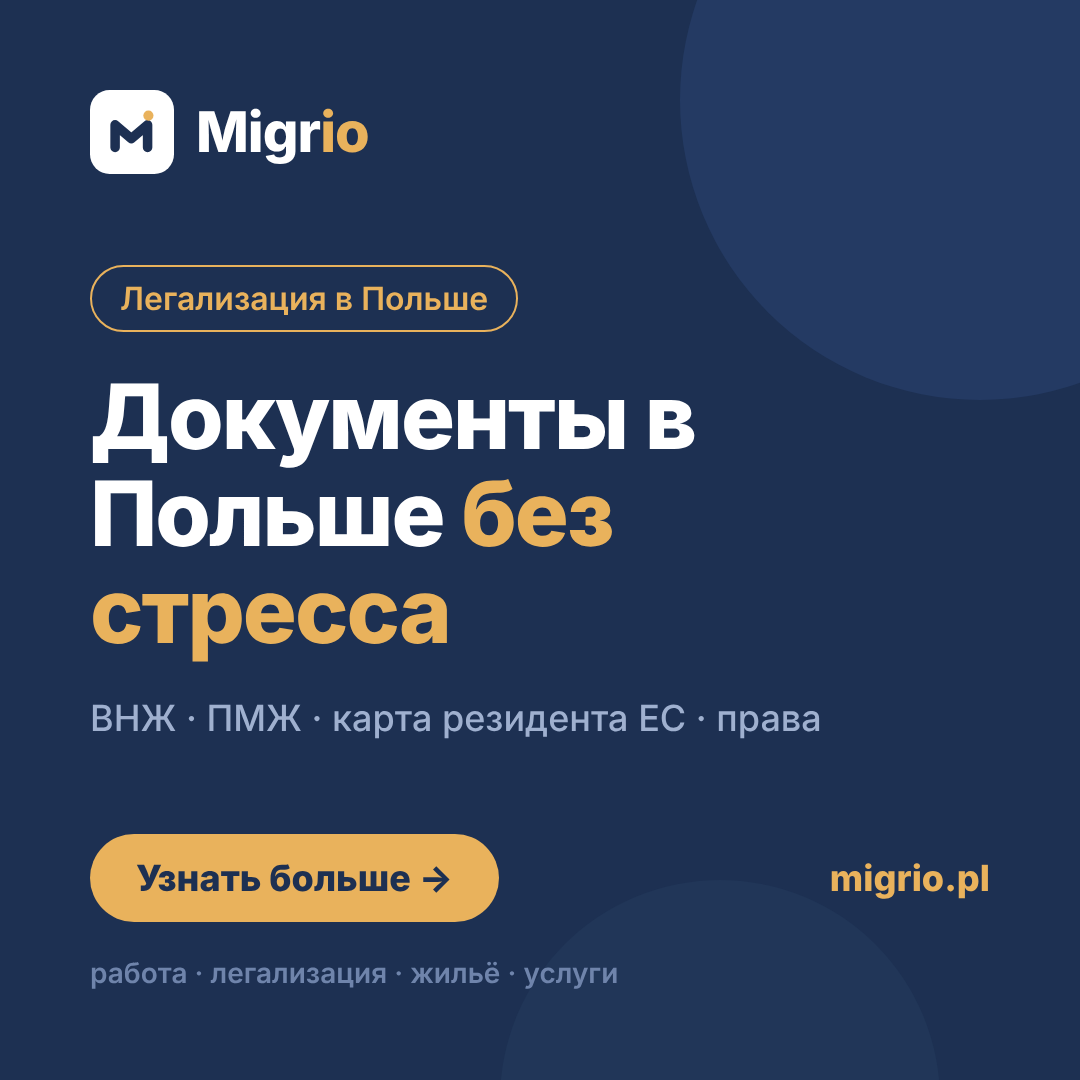
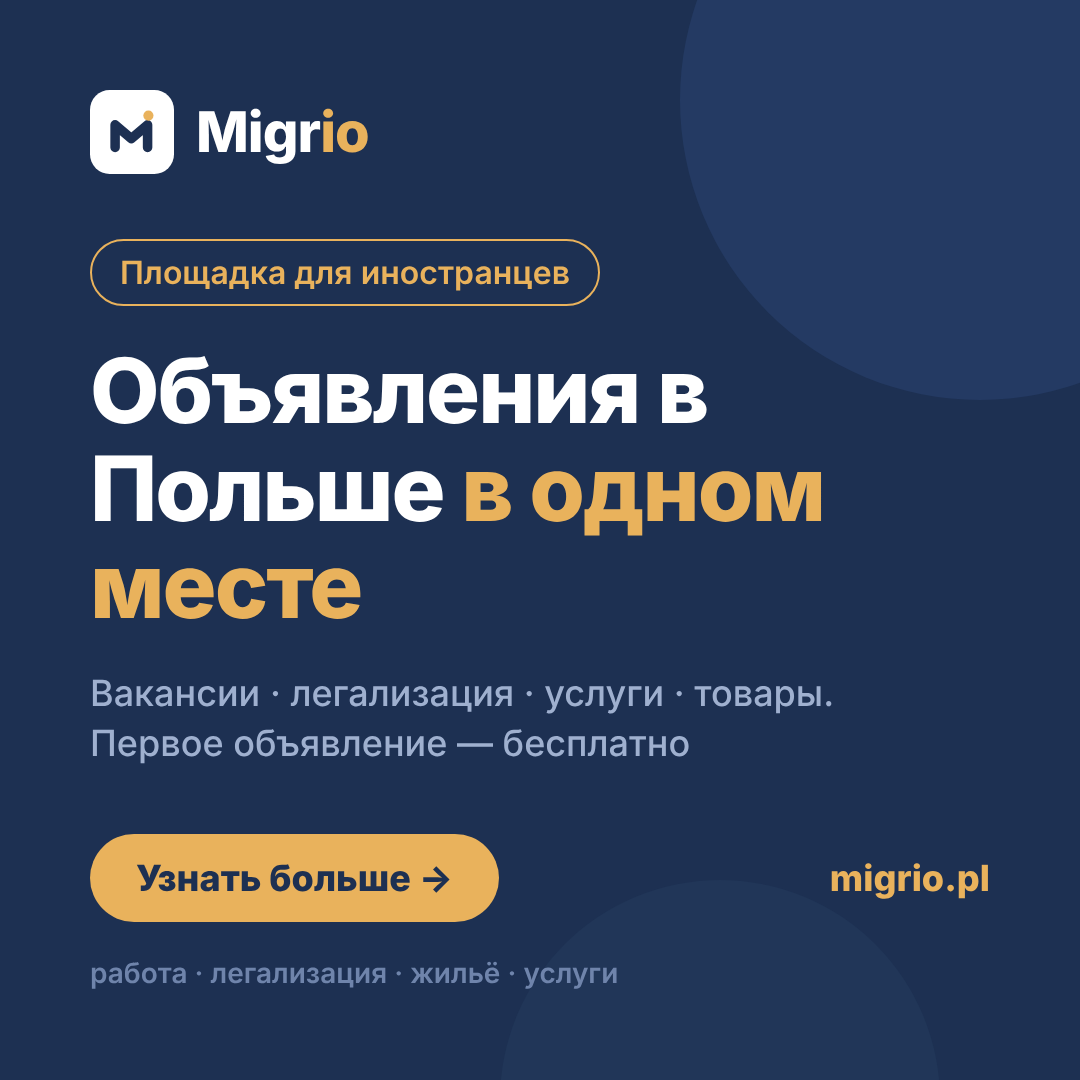
Rewrite posts and images for Migrio classifieds platform
Claude-Session: https://claude.ai/code/session_017Vq9PKqr32zPk6geebjYYy

Changed region(s): [[0.0611, 0.2139, 0.7639, 0.7028]]

diff --git a/migrio-telegram-posts.md b/migrio-telegram-posts.md
@@ -1,122 +1,119 @@
 # Рекламные посты migrio.pl для Telegram-каналов
 
-Допущение: Migrio — сервис для иностранцев в Польше (ВНЖ, ПМЖ, карта резидента ЕС, обмен водительских прав). Всё, что в [скобках], замените своими данными: фишки, цены, сроки, ссылку на бота/mini app.
-Не обещаем «100% результат» и конкретные сроки решений уррада — это и риск для репутации, и нарушение правил многих каналов.
+**Что такое Migrio:** площадка объявлений для иностранцев в Польше. 1 бесплатное объявление: легализация / вакансия / продажа новых и б/у товаров / услуга. Плюс: новости от бота, калькулятор зарплаты в Польше, создание резюме на родном языке с переводом на польский.
+Ссылка / UTM для каждого канала: [migrio.pl?utm_source=...]
 
 ---
 
-## Пост 1 — Знакомство (универсальный)
+## Пост 1 — Знакомство (картинка 01)
 
-🇵🇱 **Документы в Польше без стресса — migrio.pl**
+🇵🇱 **Migrio — площадка объявлений для иностранцев в Польше**
 
-ВНЖ, ПМЖ, карта резидента ЕС, обмен водительских прав — всё в одном месте.
+Здесь можно разместить **1 объявление бесплатно**:
+• 🛂 услуги по легализации
+• 💼 вакансию
+• 🛍 продажу новых и б/у товаров
+• 🛠 свою услугу
 
-✅ Подскажем, какой путь легализации подходит именно вам
-✅ Проверим пакет документов до подачи
-✅ Напомним о сроках, чтобы ничего не просрочить
-✅ Всё на русском, украинском и польском [уточнить]
+А ещё: новости для иностранцев, калькулятор зарплаты и резюме на польском за пару минут.
 
-Узнайте, с чего начать 👉 migrio.pl
-
----
-
-## Пост 2 — Боль: ошибки в документах
-
-😰 **Отказ или «дозаполните документы» — почти всегда из-за мелочей**
-
-Не тот формат фото, устаревшая справка, неверно заполненный wniosek — и вы теряете месяцы.
-
-В Migrio мы проверяем документы **до** подачи в urząd, чтобы вы не получили отказ из-за ерунды.
-
-📲 Проверить свою ситуацию: migrio.pl
-
----
-
-## Пост 3 — Чек-лист (вирусный, хорошо пересылают)
-
-📋 **5 вещей, которые нужно проверить до подачи на ВНЖ**
-
-1⃣ Срок действия текущего разрешения/визы — подавать надо вовремя
-2⃣ Подтверждение источника дохода и жилья
-3⃣ Страховка (ZUS или полис) без пробелов
-4⃣ Фото по требованиям urzędu
-5⃣ Оплата пошлины и правильные реквизиты
-
-Забыли хоть один пункт? Мы подскажем, что именно нужно в вашем случае 👉 migrio.pl
-
-*(для публикации сверьте пункты с актуальными требованиями воеводского урзеда)*
-
----
-
-## Пост 4 — Водительские права
-
-🚗 **Живёте в Польше и ездите с чужими правами?**
-
-Расскажем, нужно ли менять права на польские, какие документы потребуются и как не пропустить срок.
-
-Без очередей на разбирательство в интернете — всё по шагам на migrio.pl 👉
-
----
-
-## Пост 5 — ПМЖ и карта резидента ЕС
-
-🏠 **ПМЖ или карта резидента ЕС — что выбрать?**
-
-Разница есть: по срокам проживания, по требованиям к языку и доходу, по правам.
-
-Не гадайте — на migrio.pl сравним варианты под вашу ситуацию и составим план действий.
-
-Начните с короткого опроса 👉 migrio.pl
-
----
-
-## Пост 6 — Удобство (Telegram mini app)
-
-📱 **Теперь легализация — в Telegram**
-
-Без установки приложений и без десятка чатов с «знакомым, который в теме»:
-• статус дел
-• список документов
-• напоминания о дедлайнах
-• связь со специалистом
-
-Открыть Migrio 👉 [ссылка на mini app]
-
----
-
-## Пост 7 — Доверие / эксперт
-
-👩💼 **За Migrio стоят практики, которые каждый день работают с делами иностранцев в Польше**
-
-Мы знаем, как на самом деле выглядят отказы, какие вопросы задаёт urząd и где люди чаще всего ошибаются. Этот опыт — внутри сервиса.
-
-migrio.pl — документы под контролем.
-
----
-
-## Пост 8 — Короткий (для чатов и закрепа)
-
-🇵🇱 ВНЖ • ПМЖ • Карта резидента ЕС • Права
-Проверим документы, подскажем путь, напомним о сроках.
 👉 migrio.pl
 
 ---
 
-## Пост 9 — Срочность (сезонный оффер)
+## Пост 2 — Бесплатное объявление (картинка 02)
 
-⏳ **Срок вашего разрешения заканчивается?**
+💸 **Первое объявление на Migrio — бесплатно**
 
-Чем раньше начнёте, тем больше шансов подать вовремя и сохранить легальность пребывания.
+Есть вакансия? Продаёте мебель, технику, вещи? Оказываете услуги или помогаете с ВНЖ?
 
-Узнайте, что нужно сделать прямо сейчас 👉 migrio.pl
-[бонус/скидка для подписчиков канала, если есть: промокод ____]
+Разместите объявление и найдите клиентов среди тех, кто живёт и работает в Польше.
+
+👉 Опубликовать: migrio.pl
 
 ---
 
-## Рекомендации по публикации
+## Пост 3 — Для работодателей и соискателей (картинка 03)
 
-- Лучшие форматы: пост 3 (чек-лист) и пост 2 — для нативной рекламы; 8 — для закрепа и бирж.
-- Добавьте к постам картинку/карточку в фирменном стиле; кнопку-ссылку делайте на бота/mini app.
-- Для каждого канала — своя UTM-метка или промокод, чтобы считать конверсию.
-- Не публикуйте гарантий результата и точных сроков рассмотрения дел.
-- Если нужно, подготовлю версии на украинском/польском/английском и вариации под отдельные каналы.
+💼 **Работа в Польше: ищете сотрудников или место?**
+
+Работодателям — разместите вакансию бесплатно (1 объявление).
+Соискателям — смотрите вакансии, считайте зарплату и отправляйте резюме на польском.
+
+Всё в одном месте 👉 migrio.pl
+
+---
+
+## Пост 4 — Купля-продажа (картинка 04)
+
+🛍 **Продайте лишнее — купите нужное**
+
+Переезд, ремонт, смена работы — вещей накапливается много. Выставьте б/у или новый товар на Migrio: объявление бесплатно.
+
+Покупатели — такие же иностранцы в Польше, а не абстрактный рынок.
+
+👉 migrio.pl
+
+---
+
+## Пост 5 — Резюме с переводом (картинка 05)
+
+📄 **Резюме на польском — без знания польского**
+
+Заполните данные на родном языке (русском/украинском). Бот Migrio оформит резюме и переведёт на польский.
+
+Готовый файл — и вперёд к работодателям 🇵🇱
+
+👉 migrio.pl
+
+*(Перед публикацией уточните форматы: русский/украинский и т.д., и что отдаёт бот — PDF/текст.)*
+
+---
+
+## Пост 6 — Калькулятор зарплаты (картинка 06)
+
+🧮 **Сколько вы реально получите в Польше?**
+
+Калькулятор зарплаты на Migrio поможет прикинуть доход ещё до того, как вы согласились на вакансию.
+
+Без сюрпризов в первой выплате 😉
+
+👉 migrio.pl
+
+*(Уточните, что именно считает калькулятор — брутто→нетто, налоги, ZUS, umowa zlecenie/o pracę, и скорректируйте текст.)*
+
+---
+
+## Пост 7 — Новости (картинка 07)
+
+📰 **Новости для иностранцев в Польше — без лишнего шума**
+
+Бот Migrio собирает актуальные новости: легализация, работа, жизнь в Польше. Не надо перелопачивать десяток каналов.
+
+👉 migrio.pl
+
+---
+
+## Пост 8 — Для специалистов по легализации (без картинки или с 01)
+
+🛂 **Вы помогаете с ВНЖ, ПМЖ, картой резидента?**
+
+Разместите услугу на Migrio — **первое объявление бесплатно**. Вас увидят иностранцы, которые ищут помощь с документами именно сейчас.
+
+👉 migrio.pl
+
+---
+
+## Пост 9 — Короткий (для чатов и закрепа)
+
+🇵🇱 Migrio — работа, легализация, жильё, услуги.
+1 объявление — бесплатно. Резюме на польском, калькулятор ЗП, новости.
+👉 migrio.pl
+
+---
+
+## Рекомендации
+
+- Для рекламы в каналах по теме: посты 1, 2, 5, 6 лучше всего заходят аудитории; пост 8 — в каналах специалистов.
+- Не пишем «гарантированно», «100%» и сроки по делам в urząd.
+- Для каждого канала — своя UTM-метка, чтобы сравнивать конверсию.
